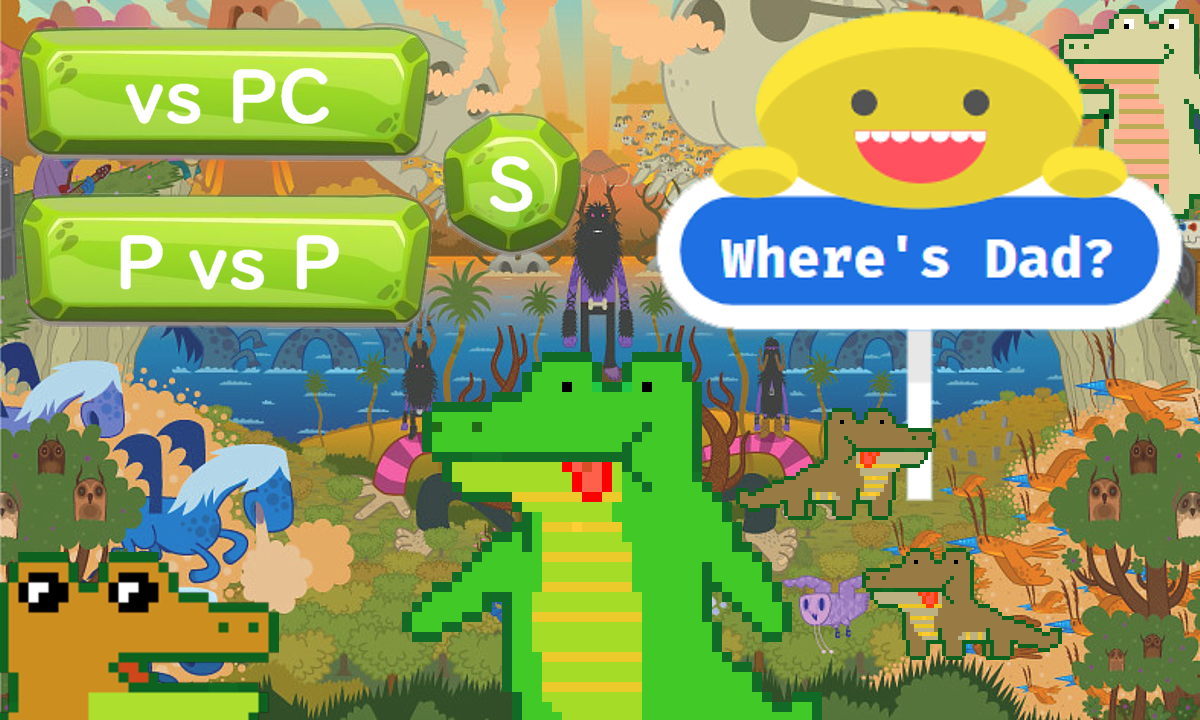
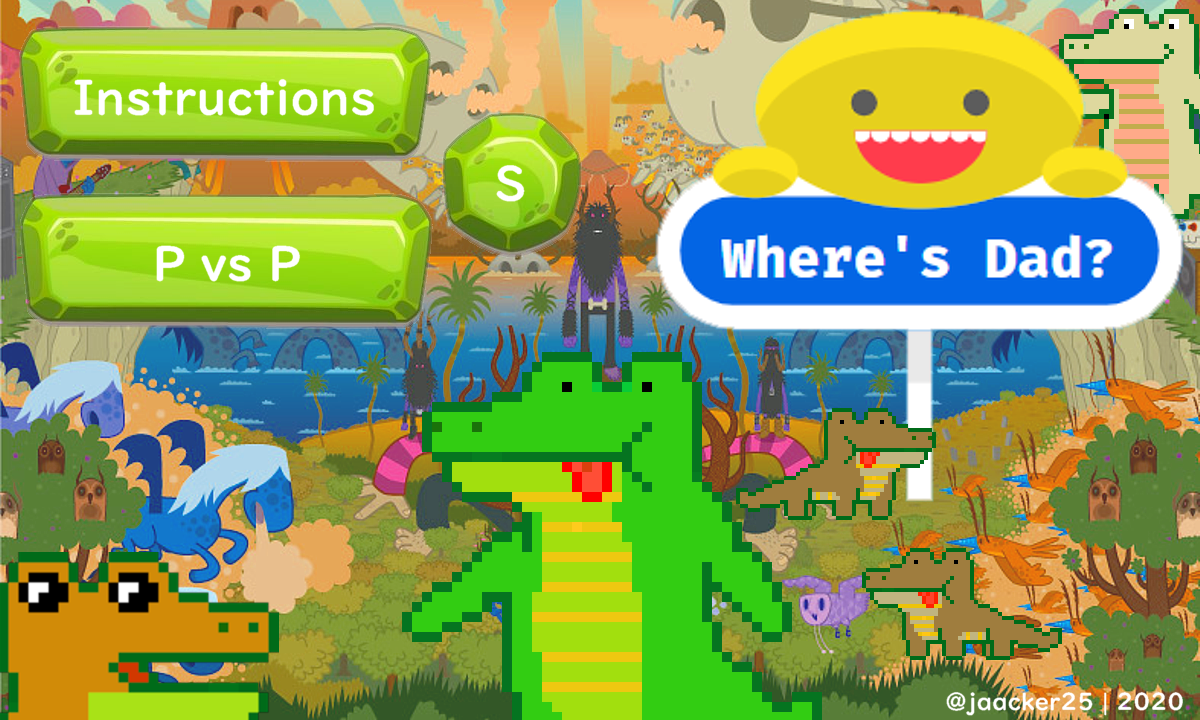
se arreglo el problema de carga de inicio y se agrego la pantalla de instrucciones

diff --git a/src/script.js b/src/script.js
@@ -1,12 +1,9 @@
 const bod=document.querySelector('.bod');
 const canvas=document.querySelector('canvas');
 const ctx=canvas.getContext('2d');
-const inputName=document.querySelector('.input-name');
-const btnStart=document.querySelector(".start-button");
 const btnVsPc=document.querySelector(".btn-vs-pc");
 const btnPvsP=document.querySelector(".btn-pvsp");
 const btnS=document.querySelector(".btn-s");
-let inputText=inputName.value;
 let fullScreen=false;
 let frames=0;
 let drawDad=false;//animacion de caminar
@@ -17,8 +14,10 @@ let viewP1=true;//saber a que lado esta volteando el jugador
 let viewP2=true;//saber a que lado esta volteando el jugador
 let gameOver1stage=false; //saber si ya termino el juego en primer escenario
 let gameOver2stage=false; //saber si ya termino el juego en segundo escenario
+let ins=false;//saber si nos encontramos en la pagina de instrucciones
 let secondFrame=0;
 let countFrames=0; //para hacer delays de tiempo
+let menuIntro=true;
 let firstStage=false; //saber si nos encontramos en el primer escenario
 let secondStage=false; //saber si nos encontramos en el segundo escenario
 let scoreP1=100;//valores iniciales para vida de jugador 1
@@ -44,8 +43,6 @@ let carga=0;
 const images={
 fakeBackground:'./images/fake_menu.png',
 crocBackground: './images/crocBackground.png',
-fakeName:'./images/fake_name.png',
-btnPlay:'./images/play.png',
 btnSprite:'./images/buttons.png',
 back1stStageColor: './images/1stStage_color.png',
 back1stStageGray: './images/1stStage_gray.png',
@@ -64,7 +61,8 @@ croc2: './images/spritesheet_croc2.png',
 heart: './images/heart.png',
 rocketMini: './images/rocketMini.png',
 winnerP1: './images/winnerP1.png',
-winnerP2: './images/winnerP2.png'
+winnerP2: './images/winnerP2.png',
+instructions: './images/instructions.png'
 
 }
 //Cargamos Audios
@@ -83,6 +81,12 @@ const levelUp=new Audio('./audio/levelUp.mp3');
 const audioFinal=new Audio('./audio/audioFinal.mp3');
 
 //Cargamos Imagenes
+const instructions=new Image()
+instructions.src=images.instructions;
+instructions.onload=()=>{
+  carga++;
+  return;
+}
 const winnerP2=new Image()
 winnerP2.src=images.winnerP2;
 winnerP2.onload=()=>{
@@ -203,31 +207,18 @@ btnSprite.onload=()=>{
   carga++;
   return;
 }
-const fName=new Image()
-fName.src=images.fakeName;
-fName.onload=()=>{
-  carga++;
-  return;
-}
-const btnPlay=new Image()
-btnPlay.src=images.btnPlay;
-btnPlay.onload=()=>{
-  carga++;
-  return;
-}
+
 const fBackground = new Image()
 fBackground.src = images.fakeBackground;
 fBackground.onload = () => {
   carga++;
-//fakeStart();//------------------------------------------AQUI INICIA TODO
-//goFirstStage();
-//goMenu();
-//gameOver2s();
+
 }
 
 function waitResult(){
-  if (carga===23) {
-    fakeStart();
+  if (carga===22) {
+    //goMenu();
+    fakeStart();//------------------------------------------AQUI INICIA TODO
   } else {
        setTimeout(waitResult, 250);
   }
@@ -417,24 +408,13 @@ ctx.strokeStyle = "white";
 ctx.strokeRect(0,0,canvas.width,canvas.height);
 //Dibuja fondo
 ctx.drawImage(fBackground,0,0,canvas.width,canvas.height);
-//Dibuja logo
-ctx.drawImage(fName,500,550);
-//Dibuja boton de Play
-ctx.drawImage(btnPlay,950,325,179,197);
-//Dibuja Check In (Ingresa tu nombre para continuar)
-ctx.drawImage(btnSprite,0,200,413,138,800,50,380,80)
-ctx.font = '45px Ubuntu';
-ctx.fillStyle='white';
-ctx.fillText("What's your name",860,105,250)
-//Check Name 
 
 }
 //-------------------------------------------------first STAGE-------------------
 //El primer escenario del juego con el tutorial de inicio
 function goFirstStage(){
 //Borramos la pantalla de inicio
-inputName.setAttribute("style", "display:none");
-btnStart.setAttribute("style", "display:none");
+
 ctx.clearRect(0,0,canvas.width,canvas.height);
 //Cargamos el nuevo escenario
 ctx.drawImage(back1stStageGray,0,0,canvas.width,canvas.height);
@@ -476,16 +456,16 @@ ctx.drawImage(boats,324,5,444,450,717,118,444,450);
 
 
 //despliega por 15 segundos las instrucciones
-if(frames<60*15){
+if(frames<60*10){
 ctx.strokeStyle='white'
 ctx.strokeRect(334,10,532,186)
 ctx.drawImage(controls,334,10,532,186);
-ctx.font = '40px Ubuntu';
+ctx.font = 'bold 40px Ubuntu';
 ctx.textAlign = "center";
 ctx.fillStyle='white';
-ctx.fillText(`Welcome ${inputText}.`,600,235,200)
+ctx.fillText(`Welcome friend, you are the hunter!`,600,235,500)
 }
-if(frames>60*20){
+if(frames>60*12){
   if(!gameOver1stage&&frames%8===0){
     crocDad.goLeft();
     }
@@ -755,6 +735,7 @@ isTouch(element){
   }
 }
 const player1=new Player1();
+const playerSuper=new Player1();
 //ccccccccccccccccccccccccccccccccccccccccccccccccccccccc
 class Player2{
   constructor(){
@@ -1004,20 +985,32 @@ class Missile{
 function goMenu(){
   audioCrocDadKilled.pause();
  clearInterval(interval); //comentado momentaneo!!!!!!
- //inputName.setAttribute("style", "display:none"); //agregado momentaneo!!!!!!
- //btnStart.setAttribute("style", "display:none"); //agregado momentaneo!!!!!!
   firstStage=false;
   frames=0;
   ctx.clearRect(0,0,canvas.width,canvas.height);
   ctx.drawImage(crocBackground,0,0,canvas.width,canvas.height);
+  if(!ins){
   audioMenu.loop=true;
   audioMenu.currentTime = 0;
   audioMenu.play();
+  }
+  ins=false;
  //habilita botones
  btnVsPc.setAttribute("style", "display:block");
  btnPvsP.setAttribute("style", "display:block");
  btnS.setAttribute("style", "display:block");
 
+}
+
+function instructive(){
+//Borramos la pantalla de inicio y botones
+btnVsPc.setAttribute("style", "display:none");
+btnPvsP.setAttribute("style", "display:none");
+btnS.setAttribute("style", "display:none");
+ctx.clearRect(0,0,canvas.width,canvas.height);
+//Cargamos el nuevo escenario
+ctx.drawImage(instructions,0,0,canvas.width,canvas.height);
+ins=true;
 }
 
 function goGamePvsP(){
@@ -1030,6 +1023,7 @@ ctx.clearRect(0,0,canvas.width,canvas.height);
 ctx.drawImage(backPvsP,0,0,canvas.width,canvas.height);
 intervale = setInterval(updatePP, 1000 / 60)
 secondStage=true;
+
 
 //reproducimos musica de fondo
 audio2ndStage.loop=true;
@@ -1273,12 +1267,12 @@ function fullfScreen(){
     } else {
       bod.mozRequestFullScreen()
     }
-
 }
 
 
 
-
+window.addEventListener("keydown", keysPressed, false);
+window.addEventListener("keyup", keysReleased, false);
 
 function keysPressed(e) {
   keys[e.keyCode] = true
@@ -1343,9 +1337,17 @@ function keysPressed(e) {
       goMenu();
       }
     }
-      if(gameOver2s){
+      if(gameOver2stage){
       goMenu();
       
+    }
+    if(menuIntro){
+      btnStart();
+
+    }
+    if(ins){
+      audioBtn.play();
+      goMenu();
     }
   }
   if (keys[87]) {
@@ -1370,6 +1372,7 @@ function keysPressed(e) {
       player1.goDown();
       }
   }
+
   if (keys[81]) {
     if(secondStage&&preventMultiShootP1){
       player1.attack();
@@ -1397,16 +1400,13 @@ if(keyCode===32){
 
 
 })
+
 //LEE boton de inicio en fakeInicio
-  btnStart.onclick = function() {
-    inputText=inputName.value;
+    function btnStart(){
     longShootGunAudio.play();
     firstStage=true;
-
-
-    window.addEventListener("keydown", keysPressed, false);
-    window.addEventListener("keyup", keysReleased, false);
-
+   
+    menuIntro=false;
     setTimeout(function(){
       fullfScreen();
       goFirstStage();
@@ -1425,22 +1425,22 @@ if(keyCode===32){
     
   };
 
- //LEE boton de vsPC
+ //LEE boton de Instructions
  btnVsPc.onclick = function() {
   audioBtn.play();
   //audioMenu.pause();
- // setTimeout(function(){
-    //goGameVsPC();
- // }, 1000); 
+  setTimeout(function(){
+    instructive();
+  }, 1000); 
   
 };
 
  //LEE boton de SuperGame
  btnS.onclick = function() {
   audioBtn.play();
-  //audioMenu.pause();
-  //setTimeout(function(){
-    //goGameSuper();
+ // audioMenu.pause();
+ // setTimeout(function(){
+ //   goGameSuper();
  // }, 1000); 
   
 };

diff --git a/src/style.css b/src/style.css
@@ -16,7 +16,7 @@ body{
     height: 100vh;
 
 }
-
+/*
 .input-name{
     position: absolute;
     width: 350px;
@@ -30,7 +30,8 @@ body{
     font-family: -apple-system, BlinkMacSystemFont, 'Segoe UI', Roboto, Oxygen, Ubuntu, Cantarell, 'Open Sans', 'Helvetica Neue', sans-serif;
     color: honeydew;   
     text-align: center;
-}
+}*/
+/*
 .start-button{
     position: absolute;
     width: 120px;
@@ -41,7 +42,7 @@ body{
     background-color:transparent;
     border-color:transparent;
 }
-
+*/
 .btn-vs-pc{
     position: absolute;
     width: 380px;

diff --git a/src/index.html b/src/index.html
@@ -9,8 +9,6 @@
 </head>
 <body class="bod">
     <div><canvas width="1200" height="720"></canvas></div>
-    <input class='input-name' type="text" name="fname" value="Jorge">
-    <button class="start-button"></button>
     <button class="btn-vs-pc" style="display: none;"></button>
     <button class="btn-pvsp" style="display: none;"></button>
     <button class="btn-s" style="display: none;"></button>
